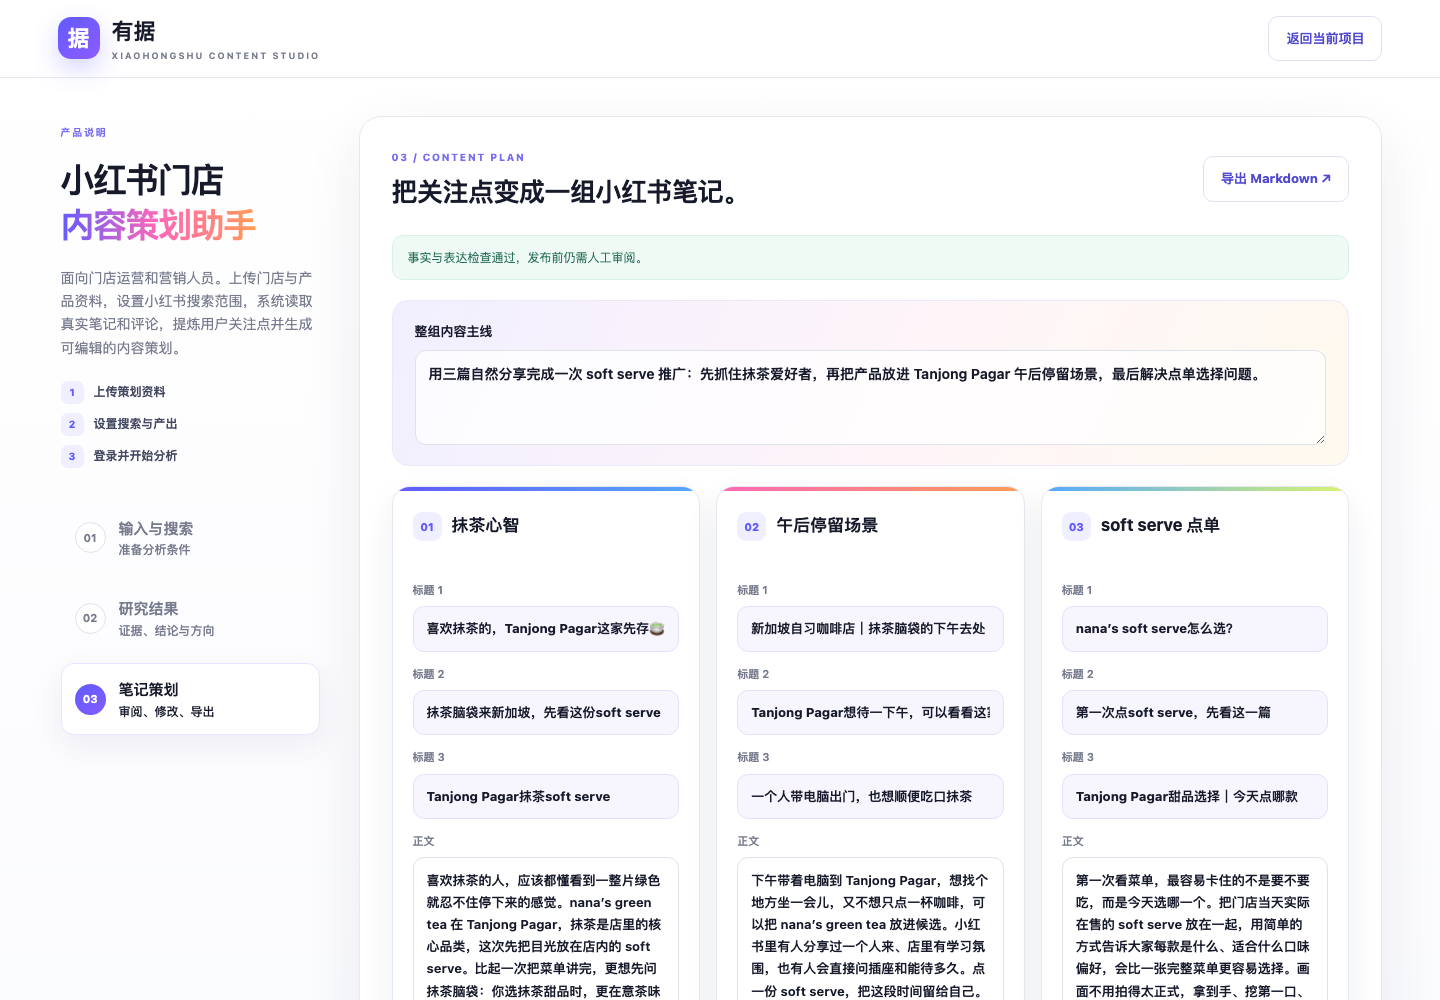
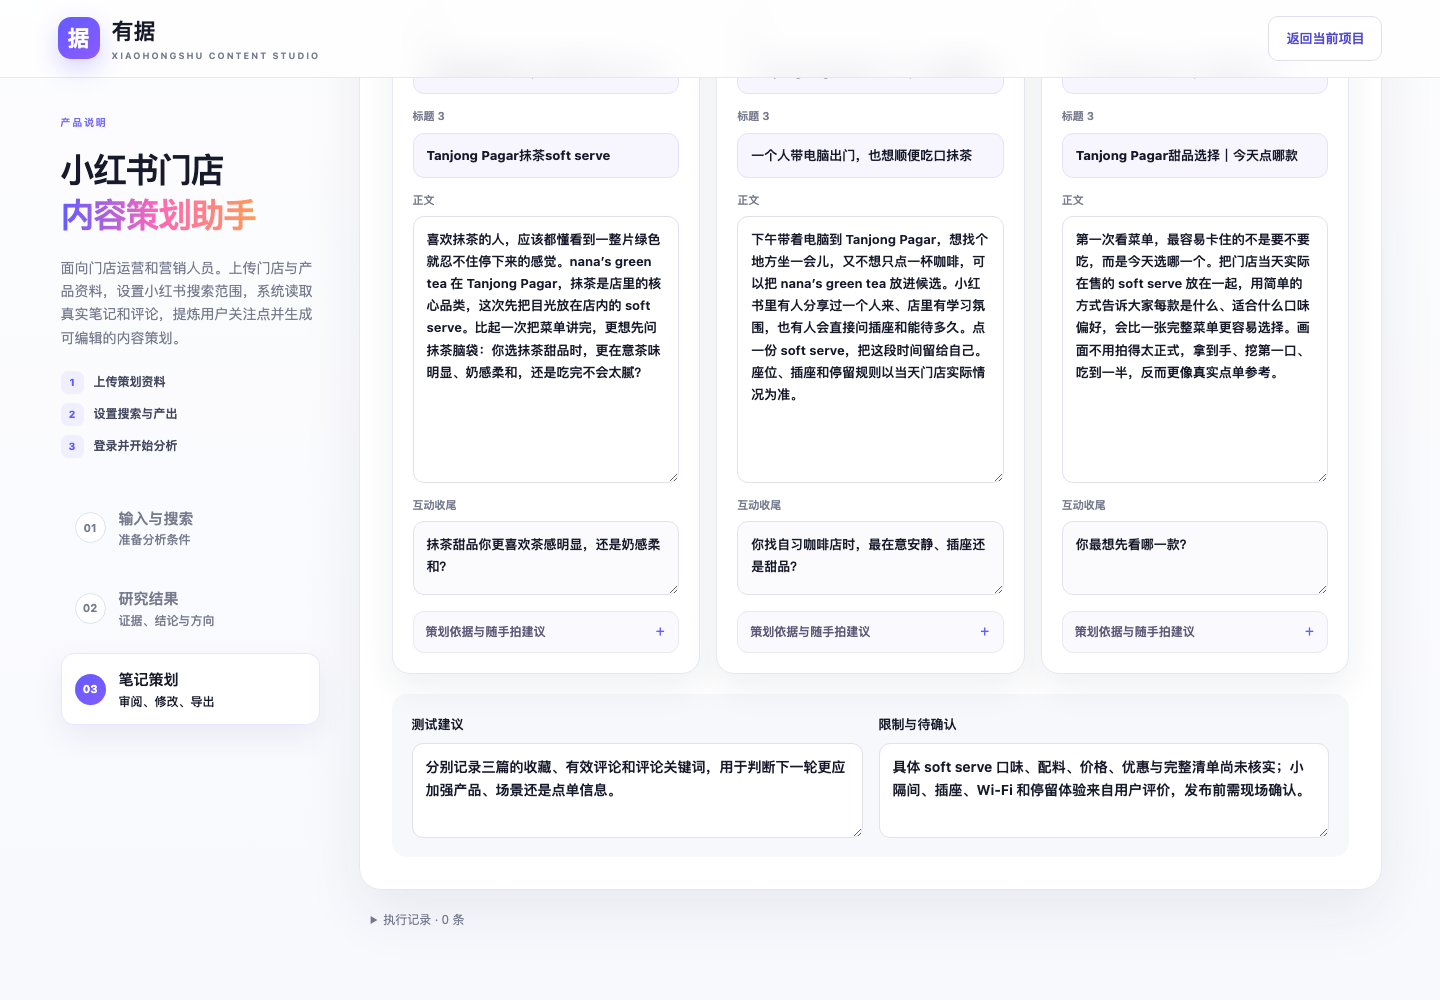
Turn README into detailed product walkthrough

diff --git a/README.md b/README.md
@@ -2,106 +2,152 @@
 
 ### AI Social Insights & Content Planner
 
-**小红书洞察与内容策划 AI：从消费者关注点出发，为品牌找到值得讲的内容。**
+**把真实社媒反馈转化为有依据、可执行的品牌内容策划。**
 
-有据面向门店经营者、品牌营销与内容运营人员，将商家提供的产品资料与小红书真实笔记、评论结合，帮助用户判断推广应该突出哪些卖点、面向哪些消费场景，并生成可修改、有来源依据的笔记策划。
+有据面向本地消费品牌经营者、品牌营销和内容运营人员。用户提供要推广的门店与产品，系统研究小红书中的市场需求、细分消费场景和本店评价，找到消费者关注点与品牌事实的交集，再生成可编辑、可追溯的小红书笔记策划。
 
-[打开产品](https://vibrant-communication-production-e59e.up.railway.app/) · [开发与部署说明](docs/DEVELOPMENT.md)
+[在线体验](https://vibrant-communication-production-e59e.up.railway.app/) · [开发与部署说明](docs/DEVELOPMENT.md)
 
-## 解决什么问题
+## 为什么做这个产品
 
-知道要推广什么产品，只是策划的起点。品牌还需要回答：消费者为什么会感兴趣？他们在同类产品中关注什么？哪些需求能与自己的产品优势匹配？
+品牌通常知道“这次要推广什么”，却不一定知道消费者为什么会感兴趣、同类内容正在谈论什么，以及应该用产品卖点还是消费场景切入。
 
-有据把这些问题串成一条工作路径：**推广目标 → 社媒研究 → 消费者关注点 → 品牌选题 → 内容草稿 → 人工审核。** 用户可以看到策划结论，也能展开查看支持结论的原文证据。
+人工研究需要反复搜索、阅读笔记和评论，再整理成选题；直接让通用模型写文案，又容易出现广告腔、卖点分散和缺少事实依据的问题。
 
-## 功能流程
+有据把这项工作组织成一条可以检查的路径：
 
 ```mermaid
 flowchart LR
-    A[上传品牌与产品资料] --> B[设置搜索范围与策划偏好]
-    B --> C[区域市场研究]
-    C --> D[细分品类与消费场景研究]
-    D --> E[本店与产品评价研究]
-    E --> F[RAG 检索相关证据]
-    F --> G[提炼消费者关注点]
-    G --> H[匹配品牌卖点与内容方向]
-    H --> I[生成并检查笔记策划]
-    I --> J[人工修改与导出]
+    A[品牌资料] --> B[三层社媒搜索]
+    B --> C[正文与评论]
+    C --> D[RAG 证据检索]
+    D --> E[消费者关注点]
+    E --> F[品牌可承接的内容方向]
+    F --> G[笔记生成与质检]
+    G --> H[人工修改与导出]
 ```
 
-产品以三步工作台承载这条流程：先提供资料并设置范围，再审阅研究证据和内容方向，最后生成、修改与导出笔记策划。
+## 完整案例：nana’s green tea 新加坡
 
-![有据的资料上传与分析设置](docs/images/product-workflow.png)
-
-## 你会得到什么
-
-| 产出 | 帮助你做出的判断 |
+| 项目 | 本次任务 |
 | --- | --- |
-| 消费者关注点与来源引用 | 了解样本中用户在意的口味、价格、位置、体验与使用场景 |
-| 内容方向与选题依据 | 将用户需求与本店资料匹配，决定这次突出什么卖点 |
-| 一组小红书笔记策划 | 查看标题、正文与简要拍摄建议，组织产品与场景内容 |
-| 可编辑、可导出的策划单 | 人工调整后导出 Markdown，用于后续创作与执行 |
+| 店名 | nana’s green tea 新加坡 |
+| 地点 | Tanjong Pagar |
+| 推广需求 | 推广店内全部 soft serve 产品 |
+| 已确认信息 | 抹茶是核心品类；具体在售口味、价格和设施需要门店确认 |
+| 策划设置 | 读取 12 篇以内的相关笔记，生成 3 篇，产品与场景均衡 |
+| 实际研究记录 | 7 篇笔记、44 条评论；公开案例保留 15 条结论证据 |
+| 最终产出 | 抹茶心智、午后停留、soft serve 点单 3 篇内容策划 |
 
-## 如何使用
+下面按照一次真实使用的顺序展示产品。
 
-### 1. 提供品牌与产品资料
+## 第一步：输入策划对象与品牌事实
 
-填写门店、城市和推广对象，补充已确认的产品信息。支持上传 PDF、DOCX、TXT、MD、CSV、JSON 资料，作为策划对象的事实参考。
+用户填写店名、城市、推广产品和具体商圈，也可以上传菜单、产品说明或门店介绍。填写的内容用于定义“本店确定能说什么”，避免模型把其他门店的卖点写成本店事实。
 
-### 2. 设置研究与内容偏好
+案例输入为 **nana’s green tea 新加坡、Tanjong Pagar、店内 soft serve 系列**，并明确抹茶是核心品类。
 
-选择笔记读取范围、生成篇数，以及产品、场景或自定义策划偏好。系统按三个层级组织研究：
+![输入门店、产品和商圈信息](docs/images/step-1-brand-input.png)
 
-- **区域市场：** 了解当地相关消费内容中的关注点。
-- **细分品类与场景：** 缩小到更接近的产品、商圈与使用需求。
-- **本店与品牌：** 在有相关评价时，补充消费者对本店的反馈。
+## 第二步：设置研究范围与内容目标
 
-### 3. 研究、审阅并生成内容
+用户可以选择读取的笔记数量、最终生成篇数和策划偏好。策划偏好支持自动判断、产品与场景均衡、突出产品、突出环境，以及自定义目标人群和卖点。
 
-使用自己的模型 API Key，并通过页面登录自己的小红书账号。研究完成后，查看关注点及证据、选择策划方向，再生成和修改笔记。中间分析可折叠，来源仍可展开查阅。
+本案例选择标准研究范围、生成 3 篇，并让产品信息与到店场景保持均衡。
 
-实时研究依赖小红书登录状态及平台访问限制，可能无法完成；内置展示案例可以独立查看。
+![设置搜索范围、生成篇数与策划偏好](docs/images/step-2-research-settings.png)
 
-## 先体验一个完整案例
+## 第三步：连接个人账号与模型 API
 
-进入产品，点击 **「查看展示案例」**，即可查看新加坡 **nana’s green tea 的 soft serve 推广案例**，无需配置 API Key 或登录小红书。
+用户在“模型设置”中填写自己的模型服务地址、模型名称和 API Key。API Key 只保存在当前访客的服务端内存会话中，不进入项目文件或案例数据；服务重启后需要重新填写。
 
-案例展示了如何将抹茶偏好、舒适停留等消费者关注点，结合本店资料转化为产品与场景选题，再形成三篇笔记策划。用户评价作为关注点参考，具体门店承诺仍需资料确认。
+![一次性填写自己的模型 API](docs/images/model-api-setup.png)
 
-展示包含分层研究、来源证据及最终策划，来自已归档的真实研究记录；打开案例不会重新采集数据或调用模型，也不会覆盖当前项目。
+随后打开登录窗口，通过自己的小红书账号完成登录，再点击“开始分析”。系统会显示搜索笔记、读取正文与评论、提炼关注点三个进度阶段。
 
-### 从真实记录提炼内容方向
+![登录小红书并开始分析](docs/images/step-3-connect-and-analyze.png)
 
-案例共分析 **7 篇笔记与 44 条评论**，在公开快照中保留 15 条用于支撑结论的证据。研究结果将区域市场、细分场景与本店信息分别呈现，避免把相邻品类或其他品牌的事实直接套用到策划对象。
+## 第四步：MCP 执行分层搜索
 
-![展示案例的研究结果与证据概览](docs/images/showcase-insights.png)
+系统通过只读小红书 MCP 调用搜索、笔记正文和评论读取工具。它不会只搜索品牌名称，而是按四组查询建立从市场到本店的研究范围：
 
-### 把关注点转化为一组笔记
+1. **大市场：** “新加坡 咖啡店 甜品店”，发现当地消费者普遍关注的决策维度。
+2. **商圈与相关品类：** “Tanjong Pagar 抹茶店 抹茶甜品”，理解附近消费场景。
+3. **同产品：** “Tanjong Pagar soft serve 软冰淇淋”，缩小到相同产品形态。
+4. **本品牌：** “新加坡 nana’s green tea”，寻找本店直接评价。
 
-系统将研究结果收敛为抹茶品类心智、午后舒适停留和 soft serve 点单决策三个内容方向，并生成对应的标题、正文与拍摄建议，供营销人员继续修改。
+本轮实际保存 7 篇笔记与 44 条评论。页面同时展示每组搜索词、找到的笔记数、读取正文数和评论数。
 
-![展示案例生成的三篇小红书笔记策划](docs/images/showcase-content-plans.png)
+![四组真实搜索的覆盖情况](docs/images/showcase-search-coverage.png)
 
-## AI 如何参与
+当前版本采集与问题高度相关的真实搜索结果，并保留页面可见的互动信息；它不等同于小红书官方热度榜，也不会把互动数写成浏览量。
 
-有据目前采用 **AI Workflow**，由程序组织研究、检索、分析、生成与检查的执行顺序。
+## 第五步：用三层漏斗形成营销判断
 
-| 环节 | 实现方式 |
+第一阶段 Prompt 按“大市场 → 细分场景 → 本店”完成漏斗分析，并要求每个结论引用原文：
+
+- **大市场层：** 识别口味、位置、排队、支付方式和舒适停留等关注维度。
+- **细分场景层：** 缩小到 Tanjong Pagar、抹茶和 soft serve，发现“小坐、舒服甜品、附近选择”等到店需求。
+- **本店层：** 用本品牌笔记确认抹茶与 soft serve 的直接关联，并发现自习、插座和学习氛围等潜在场景。
+
+每一层同时标注限制。例如，gelato 内容可以帮助发现用户如何讨论口味，却不能作为 soft serve 的产品证据；插座和停留体验来自用户评价，正式发布前仍需门店确认。
+
+![大市场、细分场景与本店的三层漏斗分析](docs/images/showcase-funnel-analysis.png)
+
+## 第六步：RAG 检索证据，结论可回看来源
+
+采集内容先被整理为带来源 ID 的笔记与评论，再使用 **jieba + BM25** 进行轻量 RAG 检索。模型只能基于召回证据和商家资料提炼观点。
+
+页面保留引用原文、来源 ID、采集时间和原始链接。营销人员可以展开检查某个判断来自哪篇笔记，确认它属于消费者关注点、本店评价，还是需要再次核实的门店事实。
+
+![可展开查看的真实笔记、评论与原始来源](docs/images/showcase-source-evidence.png)
+
+## 第七步：内化小红书写作 Skill 的方法
+
+产品参考并内化了开源 `xiaohongshu-ingest` Skill 中的写作分析框架，将一篇参考内容拆为 **目标人群、具体场景、需求、情绪、标题钩子、开场方式、正文节奏和互动收尾**。
+
+它不是在运行时调用外部 Skill，而是把适合本产品的方法固化进 Prompt、结构化字段和质量规则中。系统只学习表达结构，不复制原文，也不把参考笔记中的事实移植给品牌。
+
+![从真实参考笔记中提炼写作结构](docs/images/showcase-writing-patterns.png)
+
+具体参考与授权说明见 [THIRD_PARTY_NOTICES.md](THIRD_PARTY_NOTICES.md)。
+
+## 第八步：生成“爆款结构”候选笔记
+
+第二阶段 Prompt 将消费者关注点与本店事实匹配，生成一组有明确分工的内容；第三阶段 Prompt 再检查事实、标题主旨、广告腔和创作过程用语。
+
+本案例最终形成：
+
+1. **抹茶心智：** 面向抹茶爱好者，突出品牌与抹茶 soft serve 的关联。
+2. **午后停留场景：** 面向独自学习、等人或短暂停留的人，把产品放进 Tanjong Pagar 的真实下午。
+3. **soft serve 点单：** 面向第一次到店的人，帮助解决“怎么选”的决策问题。
+
+每篇提供 3 个标题、正文、目标人群、使用场景、互动收尾和简要拍摄建议。用户可以在页面内修改，重新检查后导出 Markdown。
+
+![根据三个营销切入点生成的笔记策划](docs/images/showcase-content-plans.png)
+
+“爆款结构”指标题清楚、场景具体、重点集中且符合平台表达习惯，它不能保证实际流量。后续仍需用收藏、有效评论、到店反馈等结果验证内容效果。
+
+## AI Workflow 如何分工
+
+| 模块 | 在产品中的职责 |
 | --- | --- |
-| 社媒研究 | FastMCP 封装只读小红书搜索、正文与评论工具，Playwright 负责浏览器访问 |
-| 证据检索 | jieba + BM25 轻量 RAG，从已收集内容中检索相关证据 |
-| 洞察与创作 | 分阶段结构化 Prompt，分别完成关注点提取、品牌匹配与笔记生成 |
-| 质量检查 | 结合程序规则与模型检查，核对引用、事实及标题正文质量 |
-| 产品交付 | FastAPI 后端、HTML/CSS/JavaScript 前端，Docker + Railway 部署 |
+| FastMCP + Playwright | 将登录状态、搜索、正文读取和评论读取封装成只读工具 |
+| 轻量 RAG | 用 jieba 分词和 BM25 从采集记录中召回与当前判断相关的证据 |
+| Prompt 1：洞察分析 | 完成三层漏斗、提炼用户关注点，并匹配品牌可承接的方向 |
+| Prompt 2：内容生成 | 将选定方向转化为标题、正文、场景、互动收尾和拍摄建议 |
+| Prompt 3：质量评审 | 检查事实编造、品类混淆、标题不清、广告腔和过程性语言 |
+| 规则校验 | 验证来源 ID、逐字引用、未确认数字、标题与正文长度 |
+| FastAPI + Pydantic | 管理任务、结构化数据、会话、归档和导出 |
+| HTML/CSS/JavaScript | 提供三步工作台与可折叠的分析过程 |
+| Docker + Railway | 将完整产品部署为可访问的在线服务 |
 
-商家资料定义产品事实，社媒内容提供需求与表达参考，人工审核决定最终采用什么内容。
+## 当前边界与下一步
 
-## 当前阶段与下一步
+当前产品是固定执行顺序的 **AI Workflow**。当搜索结果偏离或证据不足时，系统动态改写关键词、判断缺口和自主补搜的能力有限；小红书页面变化、登录验证和平台访问限制也会影响采集稳定性。
 
-目前已完成可在线体验的 MVP 和完整展示案例，适合验证从社媒研究到内容策划的流程。小批量社媒样本用于提供策划线索；尚未验证对到店、销售或品牌增长的实际影响。
-
-后续优先完善数据接入稳定性，并通过策划耗时、内容采纳率与发布表现评估价值。在此基础上，探索 ReAct Agent 按证据缺口自主补充研究；当前版本尚未采用这一架构。
+下一步计划引入 **ReAct Agent**，让模型根据已有证据判断还缺什么、选择下一项工具并迭代搜索。同时加入内容采纳率、发布时间与互动反馈，形成“研究—策划—发布—效果—下一轮优化”的营销闭环。
 
 ---
 
-需要本地运行或自行部署？查看 [开发与部署说明](docs/DEVELOPMENT.md)。第三方内容说明见 [THIRD_PARTY_NOTICES.md](THIRD_PARTY_NOTICES.md)。
+需要本地运行、测试或自行部署，请查看 [开发与部署说明](docs/DEVELOPMENT.md)。
